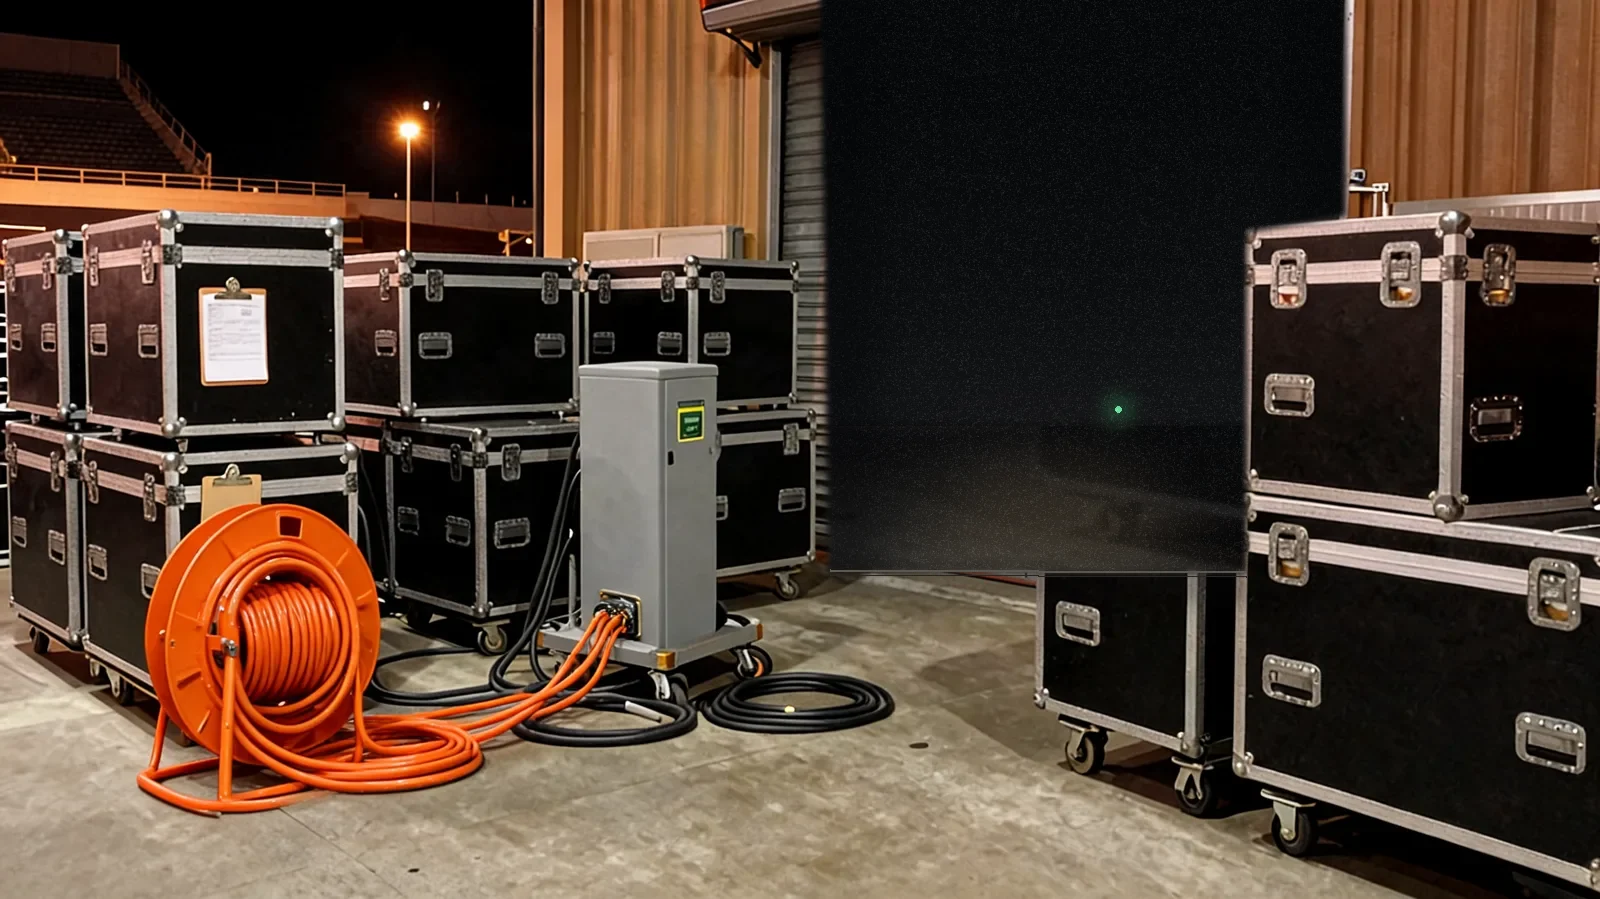
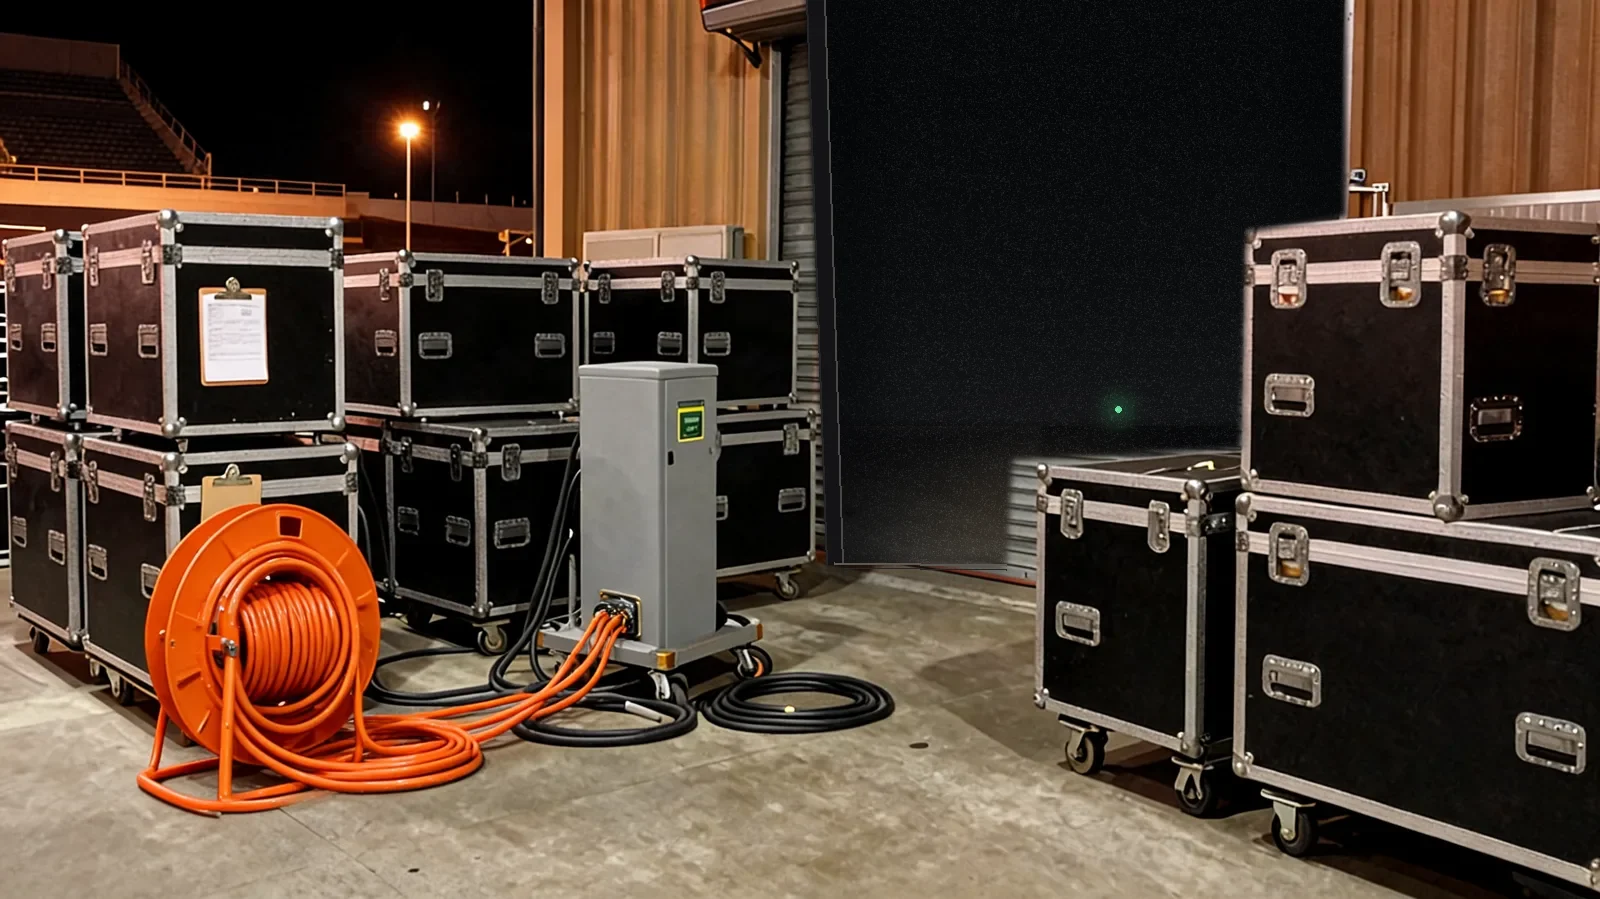
シャッターの開口部が手前の機材ケースを塗りつぶしていた不具合を修正
開口部の多角形が、シャッターの前に立っているフライトケース（右下）まで
覆っていたため、ケースが切り取られたように見えていた。実写で見えている
シャッター面だけを開口部にし、左端はガイドレールとして描いて
「切り抜いた線」に見えないようにした。

Changed region(s): [[0.5312, 0.3115, 0.7812, 0.6852], [0.5, 0.0623, 0.5312, 0.4983], [0.5, 0.0, 0.5312, 0.0311]]

diff --git a/tools/make_variants.py b/tools/make_variants.py
@@ -17,8 +17,15 @@ base = Image.open(OUT / 'backyard_cable.webp').convert('RGB')
 W, H = base.size  # 1600 x 900
 
 # --- 元写真でシャッター面が見えている範囲（手前のケースに隠れる所は避ける） ---
-OPENING = [(820, 0), (1345, 0), (1345, 216), (1246, 232), (1246, 574), (828, 572)]
-FLOOR_Y = 572       # 敷居（コンクリートとの境目）
+# 元写真でシャッター面が「実際に見えている」範囲だけを開口部にする。
+# 手前には機材ケースが2つ立っていて、右上（y>216 で x>1246）と
+# 右下（y>455 で x>1006）はケースに隠れている。ここを塗ると
+# ケースが切り取られたように見えてしまうので、必ず避ける。
+OPENING = [
+    (806, 0), (1345, 0), (1345, 216), (1246, 232),
+    (1240, 448), (1012, 460), (1006, 566), (826, 564),
+]
+FLOOR_Y = 566       # 敷居（コンクリートとの境目、左側で見えている高さ）
 BACK_Y = 430        # 奥の床と壁の境目
 X0, X1 = 820, 1345
 
@@ -88,14 +95,20 @@ mask = mask.filter(ImageFilter.GaussianBlur(3))
 open_img = Image.composite(inner, base, mask)
 
 # --- 敷居まわり：床のレール（細い明るい線）と、開口部の下に落ちる接地影 ---
+# 開口部の左端は「切り取った線」ではなく、シャッターのガイドレールとして見せる
 d = ImageDraw.Draw(open_img)
-d.line([(830, FLOOR_Y - 2), (1246, FLOOR_Y)], fill=(104, 99, 92), width=3)
-d.line([(830, FLOOR_Y + 2), (1246, FLOOR_Y + 4)], fill=(46, 45, 44), width=2)
+d.polygon([(806, 0), (824, 0), (842, 564), (826, 564)], fill=(19, 19, 21))
+d.line([(824, 0), (842, 564)], fill=(74, 72, 70), width=2)
+d.line([(806, 0), (826, 564)], fill=(38, 37, 36), width=2)
+
+# 敷居のレールと接地影は、シャッターが見えている左側だけに引く
+d.line([(834, FLOOR_Y - 3), (1006, FLOOR_Y - 1)], fill=(104, 99, 92), width=3)
+d.line([(834, FLOOR_Y + 1), (1006, FLOOR_Y + 3)], fill=(46, 45, 44), width=2)
 
 shadow = Image.new('L', (W, H), 0)
 ImageDraw.Draw(shadow).polygon(
-    [(828, FLOOR_Y + 2), (1246, FLOOR_Y + 4), (1246, FLOOR_Y + 26), (828, FLOOR_Y + 22)], fill=105)
-shadow = shadow.filter(ImageFilter.GaussianBlur(10))
+    [(832, FLOOR_Y + 1), (1006, FLOOR_Y + 3), (1006, FLOOR_Y + 24), (832, FLOOR_Y + 21)], fill=105)
+shadow = shadow.filter(ImageFilter.GaussianBlur(9))
 open_img = Image.composite(Image.new('RGB', (W, H), (10, 10, 12)), open_img, shadow)
 
 open_img.save(OUT / 'backyard_open.webp', 'WEBP', quality=86)
